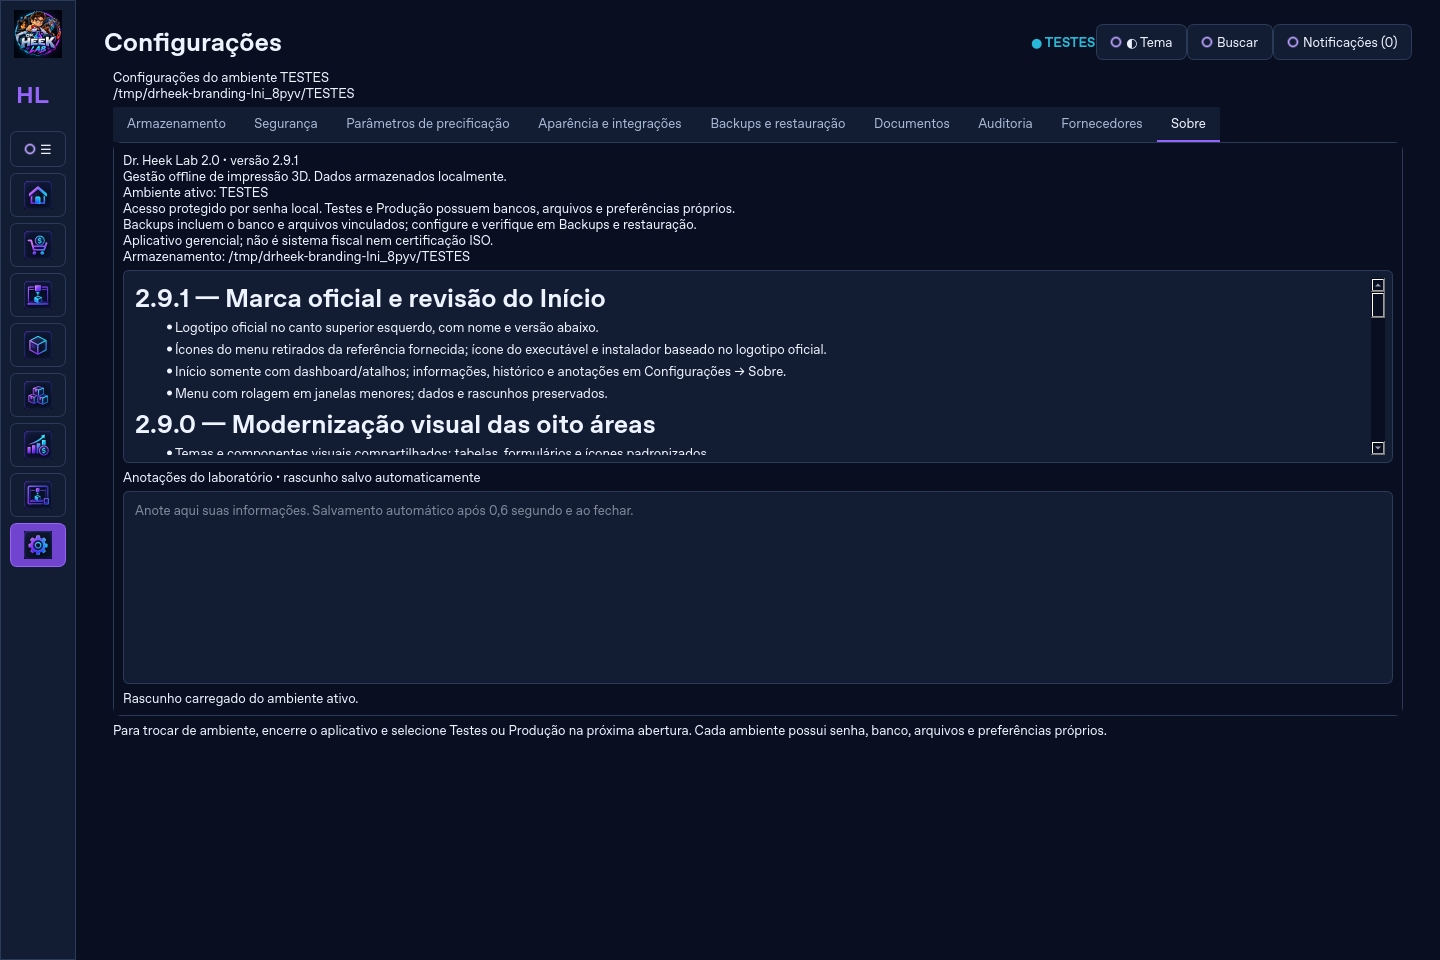
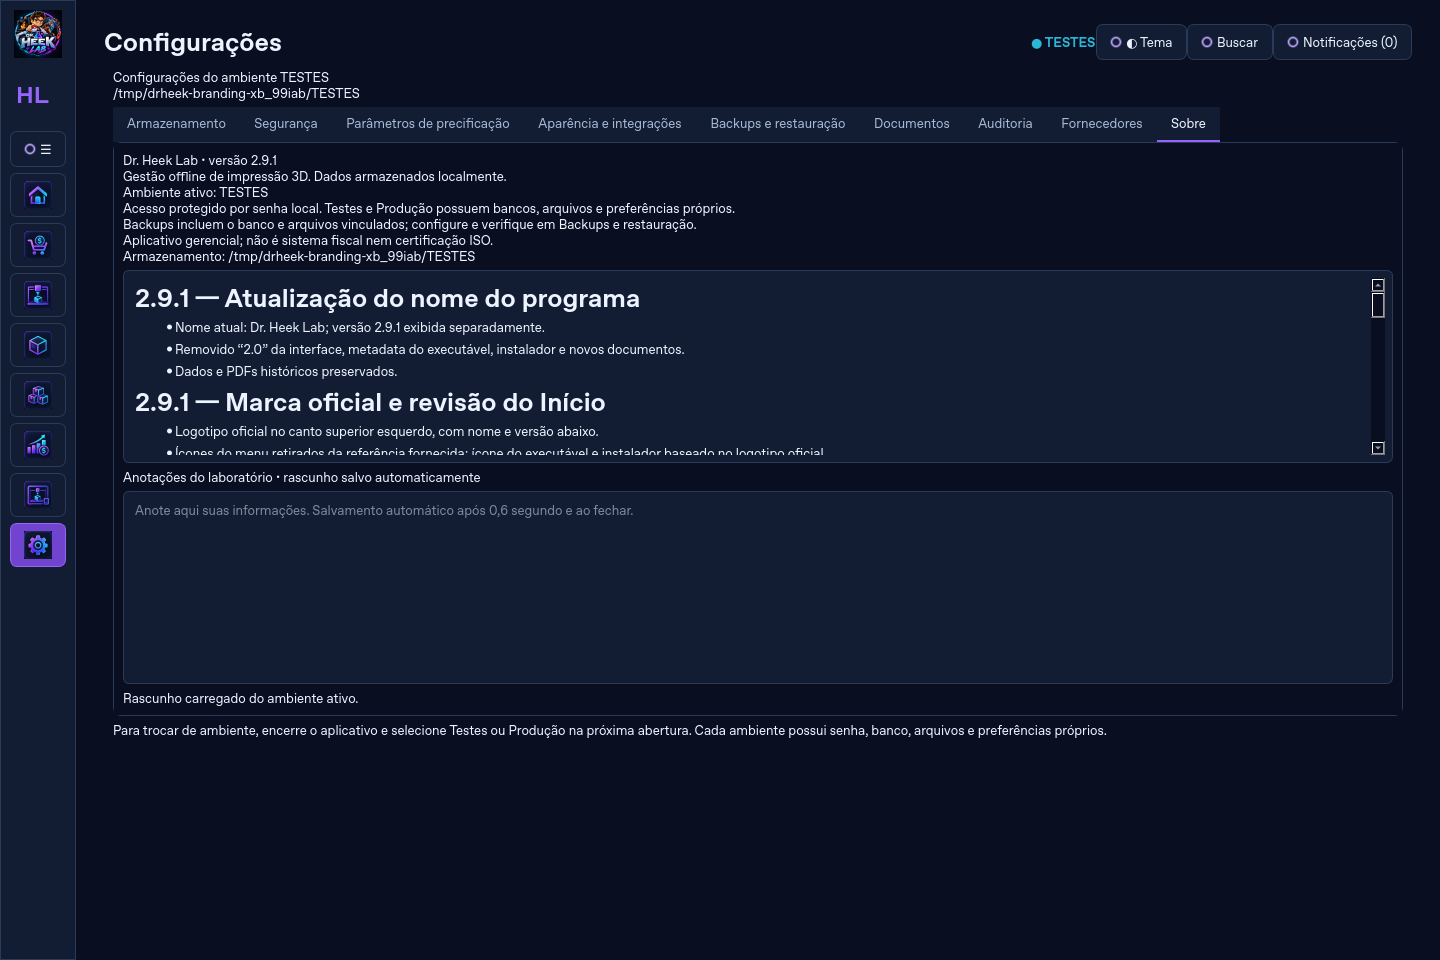
Rename product to Dr. Heek Lab while retaining version 2.9.1

Changed region(s): [[0.0938, 0.25, 0.5625, 0.5], [0.1875, 0.0938, 0.25, 0.125], [0.125, 0.1562, 0.1875, 0.1875]]

diff --git a/src/drheeklab/ui.py b/src/drheeklab/ui.py
@@ -29,7 +29,7 @@ class Login(QDialog):
         self.setWindowTitle("Dr. Heek Lab • Acesso")
         self.setMinimumWidth(390)
         box = QVBoxLayout(self)
-        title = QLabel("DR. HEEK LAB 2.0")
+        title = QLabel("DR. HEEK LAB")
         title.setStyleSheet("font-size:24px; font-weight:bold; color:#8757ef")
         box.addWidget(title)
         box.addWidget(QLabel("Ambiente: " + ENVIRONMENTS[storage.environment]))
@@ -100,7 +100,7 @@ class Window(QMainWindow):
         self._closed = False
         self.theme = storage.get("theme", "dark")
         self.collapsed = storage.get("sidebar_collapsed", False)
-        self.setWindowTitle(f"Dr. Heek Lab 2.0 • {ENVIRONMENTS[storage.environment]}")
+        self.setWindowTitle(f"Dr. Heek Lab • versão {__version__} • {ENVIRONMENTS[storage.environment]}")
         self.resize(1180, 800)
         self.setMinimumSize(780, 560)
         root = QWidget()
@@ -116,7 +116,7 @@ class Window(QMainWindow):
         self.logo.setAccessibleName('Logotipo oficial do Dr. Heek Lab')
         side.addWidget(self.logo)
         self.update_logo()
-        self.brand = QLabel("DR. HEEK\nLAB 2.0")
+        self.brand = QLabel("DR. HEEK\nLAB")
         self.brand.setObjectName("brand")
         side.addWidget(self.brand)
         self.brand_version = QLabel("Versão " + __version__)
@@ -271,7 +271,7 @@ class Window(QMainWindow):
     def about_page(self):
         from importlib.resources import files
         page = QWidget(); box = QVBoxLayout(page)
-        info = QLabel('Dr. Heek Lab 2.0 • versão ' + __version__ +
+        info = QLabel('Dr. Heek Lab • versão ' + __version__ +
             '\nGestão offline de impressão 3D. Dados armazenados localmente.' +
             '\nAmbiente ativo: ' + ENVIRONMENTS[self.storage.environment] +
             '\nAcesso protegido por senha local. Testes e Produção possuem bancos, arquivos e preferências próprios.' +
@@ -381,7 +381,7 @@ class Window(QMainWindow):
 
     def render_sidebar(self):
         self.sidebar_scroll.setFixedWidth(76 if self.collapsed else 216)
-        self.brand.setText("HL" if self.collapsed else "DR. HEEK\nLAB 2.0")
+        self.brand.setText("HL" if self.collapsed else "DR. HEEK\nLAB")
         self.phase_label.hide()
         self.brand_version.setVisible(not self.collapsed)
         self.update_logo()

diff --git a/src/drheeklab/documents.py b/src/drheeklab/documents.py
@@ -47,12 +47,12 @@ class Documents:
 
     def brand(self):
         rel=self.storage.get('logo')
-        if not rel:return {'logo':None,'name':'Dr. Heek Lab 2.0','primary':'#6d41c7','secondary':'#087eaa','status':'Logotipo oficial não configurado — documento de revisão'}
+        if not rel:return {'logo':None,'name':'Dr. Heek Lab','primary':'#6d41c7','secondary':'#087eaa','status':'Logotipo oficial não configurado — documento de revisão'}
         root=self.storage.home.resolve();relative=Path(rel);path=(root/relative).resolve()
         if relative.is_absolute() or len(relative.parts)!=2 or relative.parts[0]!='Marca' or not path.is_relative_to(root) or not path.is_file():raise ValueError('Logo configurado não foi encontrado. Importe o original em Configurações ou restaure backup.')
         from PySide6.QtGui import QImageReader
         if QImageReader(str(path)).read().isNull():raise ValueError('Logo configurado não é uma imagem válida.')
-        return {'logo':rel,'sha256':digest(path),'name':'Dr. Heek Lab 2.0','primary':'#6d41c7','secondary':'#087eaa','status':'Marca configurada'}
+        return {'logo':rel,'sha256':digest(path),'name':'Dr. Heek Lab','primary':'#6d41c7','secondary':'#087eaa','status':'Marca configurada'}
 
     def emit_finance(self,start=None,end=None,**filters):
         with transaction(self.db):

diff --git a/src/drheeklab/sales_documents.py b/src/drheeklab/sales_documents.py
@@ -83,7 +83,7 @@ def render_pdf(storage, path, data):
             story.append(paragraph('Logotipo oficial não configurado'))
     else:
         story.append(paragraph('Logotipo oficial não configurado'))
-    story.extend([paragraph('Dr. Heek Lab 2.0','Title'),paragraph(data['title'],'Heading2'),paragraph('Versão '+str(data['version'])+' • '+data['emitted_date']),Spacer(1,12)])
+    story.extend([paragraph('Dr. Heek Lab','Title'),paragraph(data['title'],'Heading2'),paragraph('Versão '+str(data['version'])+' • '+data['emitted_date']),Spacer(1,12)])
     customer=data['client']
     story.append(paragraph('Cliente: '+customer['name']))
     for key,label in (('phone','Telefone'),('email','E-mail')):

diff --git a/README.md b/README.md
@@ -1,6 +1,6 @@
-# Dr. Heek Lab 2.0 — versão 2.8.0, Fases 1–8 (candidato à homologação)
+# Dr. Heek Lab — versão 2.9.1
 
-Aplicativo **desktop offline**, Python + PySide6 + SQLite, para Windows. As Fases 1–7 e a finalização integrada da Fase 8 estão implementadas e testadas em Linux. A geração e a homologação do instalador Windows permanecem pendentes; a Fase 8 ainda não é considerada concluída para uso real no Windows.
+Aplicativo **desktop offline**, Python + PySide6 + SQLite, para Windows. As oito áreas estão implementadas. O instalador e os fluxos de instalação/reinstalação, backup e preservação de dados passaram pela validação automatizada Windows; a avaliação prática no computador do proprietário permanece pendente.
 
 Disponível: login, ambientes separados, temas, menu recolhível, configurações, rascunhos, auditoria, backups, cadastro de impressoras/manutenções e filamentos, precificação com vários materiais, comparação previsto/confirmado e atualização única de consumo e tempo.
 

diff --git a/docs/CHANGELOG.md b/docs/CHANGELOG.md
@@ -1,3 +1,9 @@
+# 2.9.1 — Atualização do nome do programa
+
+- Nome atual: Dr. Heek Lab; versão 2.9.1 exibida separadamente.
+- Removido “2.0” da interface, metadata do executável, instalador e novos documentos.
+- Dados e PDFs históricos preservados.
+
 # 2.9.1 — Marca oficial e revisão do Início
 
 - Logotipo oficial no canto superior esquerdo, com nome e versão abaixo.

diff --git a/src/drheeklab/CHANGELOG.md b/src/drheeklab/CHANGELOG.md
@@ -1,3 +1,9 @@
+# 2.9.1 — Atualização do nome do programa
+
+- Nome atual: Dr. Heek Lab; versão 2.9.1 exibida separadamente.
+- Removido “2.0” da interface, metadata do executável, instalador e novos documentos.
+- Dados e PDFs históricos preservados.
+
 # 2.9.1 — Marca oficial e revisão do Início
 
 - Logotipo oficial no canto superior esquerdo, com nome e versão abaixo.
